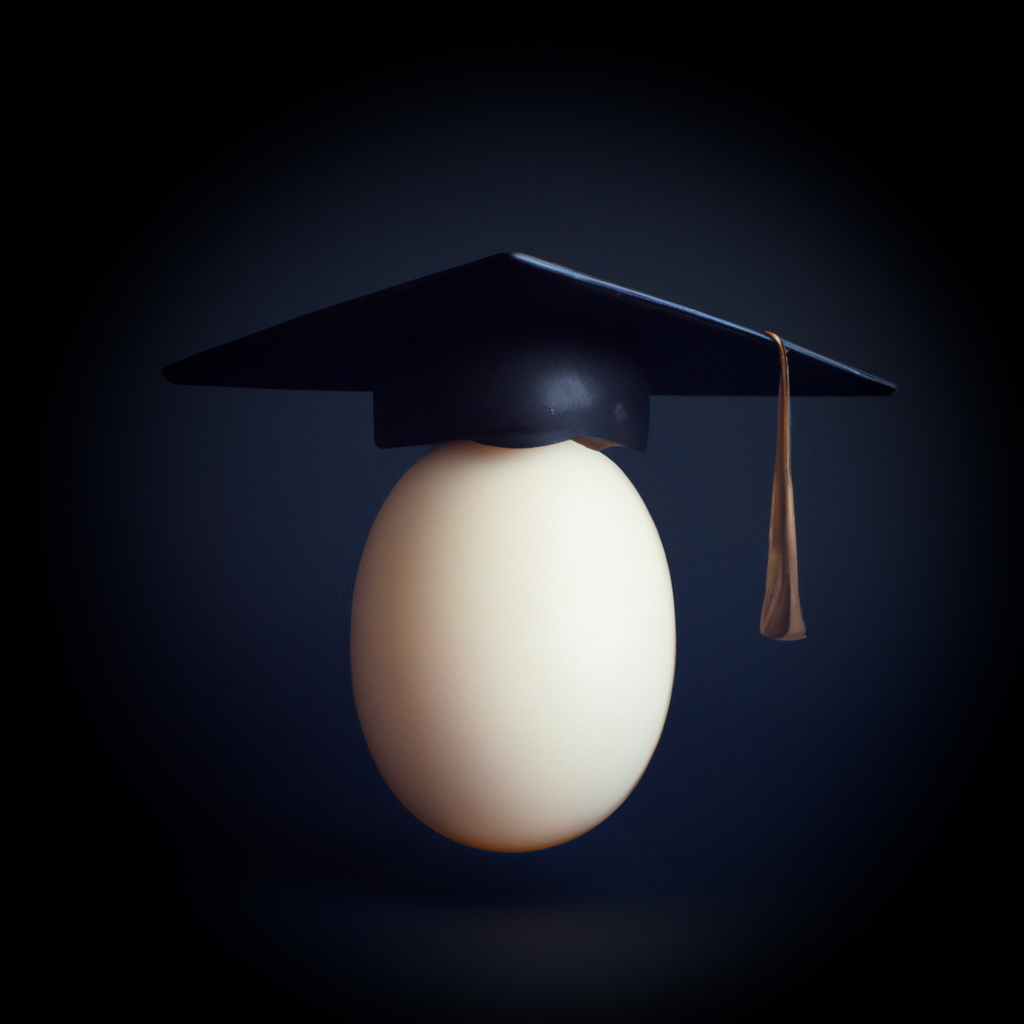
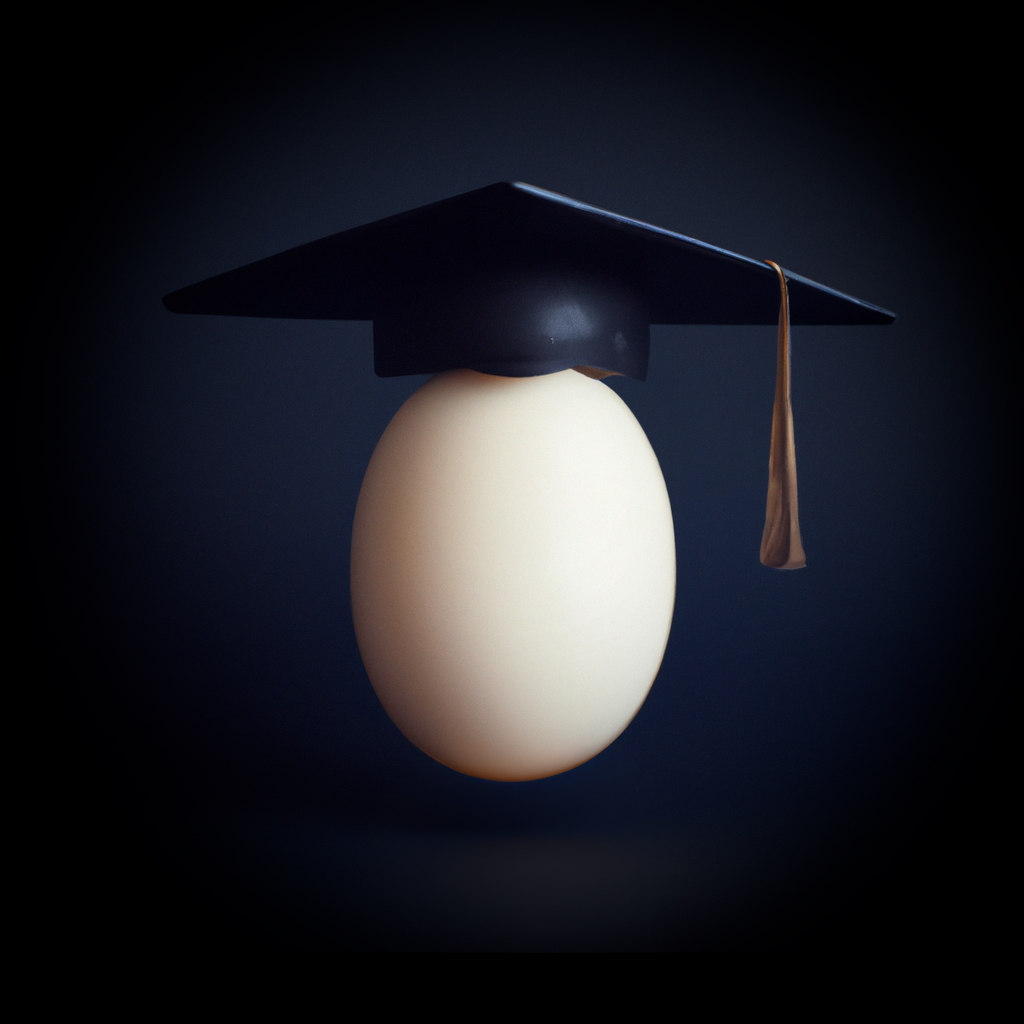
Make thank you page responsive for mobile view
- Add padding to text
- Centre image
- Make text smaller

Changed region(s): [[0.1562, 0.1562, 0.875, 0.8438], [0.4062, 0.9062, 0.6562, 0.9688]]

diff --git a/assets/css/style.css b/assets/css/style.css
@@ -150,7 +150,7 @@ header {
 	text-align: center;
 }
 
-/* Title image and text for News, Shop, Quiz & History */
+/* Title image and text for News, Shop, Quiz, Thankyou & History */
 
 .title-div {
 	height: 100vh;
@@ -691,6 +691,12 @@ a:hover {
 	text-align: center;
 }
 
+.questions {
+	text-decoration: underline solid #dfbc78 2px;
+	color: #dfbc78;
+	font-weight: bold;
+}
+
 @media screen and (min-width: 1366px) and (max-width: 1618px) {
 	#quiz-egg-text, #history-egg-text, #shop-egg-text, #news-egg-text {
 	  left: 75%;
@@ -823,6 +829,8 @@ a:hover {
 		position: static;
 		margin: 0 auto;
 		font-size: 150%;
+		white-space: normal;
+		
 	}
 
 	.title-image-and-text {
@@ -946,10 +954,10 @@ a:hover {
 	font-size: 200%;
 	}
 
-	#quiz-egg, #history-egg, #shop-egg {
+/* 	#quiz-egg, #history-egg, #shop-egg {
 		width: 100%;
 		background-position: center;
-	}
+	} */
 
 	#quiz-egg-text {
 		position: static;

diff --git a/thankyou.html b/thankyou.html
@@ -51,17 +51,18 @@
 		</div>
 	</div>
 <!-- Answers -->
-	<section id="answers">
-		<h2>Mayonnaise is great</h2>
+	<section id="answers" class="mobile-padding">
+		<p class="questions">Mayonnaise is great</p>
 		<br>
 		<p>True</p>
 		<br>
-		<h2>How many eggs must a man chow down,
-	before you can call him a man?</h2>
+		<p class="questions">How many eggs must a man chow down,
+	before you can call him a man?</p>
 		<br>
-		<p>1000</p>
+		<p >1000</p>
 		<br>
-		<h2>Knock knock / Who's there? / Egg / Egg who?</h2>
+		<p class="questions">Knock knock | Who's there?</p>
+		<p class="questions">Egg | Egg who?</p>
 		<br>
 		<p>I was going to tell you a joke about an egg, but it’s not all it’s cracked up to be</p>
 	</section>
